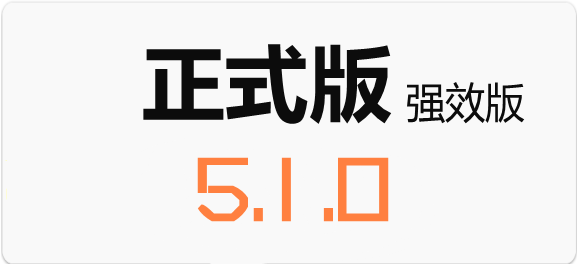
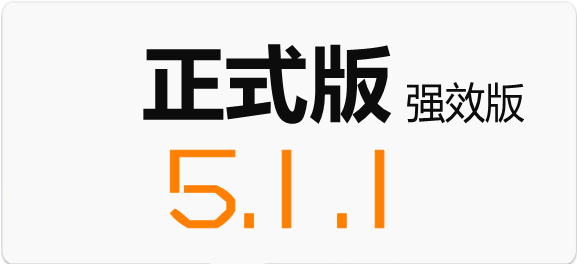
修改校验脚本；版本升级至5.1.1；去除旧的无用图片；新增1个通用规则；修改“搜狗+搜狐”分类为“搜狗&搜狐&搜狐畅游”；新增“搜狐畅游”广告过滤。

Changed region(s): [[0.2808, 0.5455, 0.5303, 0.8788], [0.5615, 0.5455, 0.6863, 0.8788]]

diff --git a/branches/checksum/addChecksum.py b/branches/checksum/addChecksum.py
@@ -1,7 +1,22 @@
 #! /usr/bin/env python
 #coding=utf-8
 #version=1.0
- 
+
+#############################################################################
+# This is a reference script to add checksums to downloadable               #
+# subscriptions. The checksum will be validated by Adblock Plus on download #
+# and checksum mismatches (broken downloads) will be rejected.              #
+#                                                                           #
+# To add a checksum to a subscription file, run the script like this:       #
+#                                                                           #
+#   python addChecksum.py adblock.txt  					                    #
+#                                                                           #
+# Note: your subscription file should be saved in UTF-8 encoding, otherwise #
+# the generated checksum might be incorrect.                                #
+#                                                                           #
+# This script is wrote by Gythialy for ChinaList Project                    #
+#############################################################################
+
 import os
 import codecs
 import hashlib
@@ -9,39 +24,39 @@ import base64
 import re
 import string
 import sys
- 
+
 def read(path):
     f = codecs.open(path, 'rt', encoding='utf-8')
     data = f.read()
     f.close()
     return data
- 
+
 def save(content, path):
     f = codecs.open(path, 'w', encoding='utf-8')
     f.write(content)
     f.close()
- 
+
 def calculatchecksum(content):
     content = re.sub(r"\r\n", "\n", content)
     content = re.sub(r"\n+", "\n", content)
     m = hashlib.md5(content.encode('utf-8'))
     validate = base64.b64encode(m.digest())
- 
+
     return re.sub(r"=+$", "", validate)
- 
+
 def insert(original, new):
     pos = original.index(']') + 2
     return original[:pos] + new + original[pos:]
- 
+
 def removechecksum(content):
     prog = re.compile(r"\s*!\s*checksum[\s\-:]+([\w\+\/=]+).*\n", re.I)
     match = prog.search(content)
     if match:
         temp = match.group().strip()
         content = string.replace(content, temp, "")
- 
+
     return content
- 
+
 if __name__ == '__main__':
     if len(sys.argv) != 2:
         print 'Pls input file name.'
@@ -54,7 +69,7 @@ if __name__ == '__main__':
     print 'Began to insert checksum'
     content = read(filename)
     content = removechecksum(content)
- 
+
     checksum = '!  Checksum: {0}'.format(calculatchecksum(content))
     content = insert(content, checksum)
     save(content, path)

diff --git a/branches/checksum/validateChecksum.py b/branches/checksum/validateChecksum.py
@@ -1,7 +1,22 @@
 #! /usr/bin/env python
 #coding=utf-8
 #version=1.0
- 
+
+#############################################################################
+# This is a reference script to validate the checksum in downloadable       #
+# subscription. This performs the same validation as Adblock Plus when it   #
+# downloads the subscription.                                               #
+#                                                                           #
+# To validate a subscription file, run the script like this:                #
+#                                                                           #
+#   python validateChecksum.py adblock-list.txt                             #
+#                                                                           #
+# Note: your subscription file should be saved in UTF-8 encoding, otherwise #
+# the validation result might be incorrect.                                 #
+#                                                                           #
+# This script is wrote by Gythialy for ChinaList Project                    #
+#############################################################################
+
 import base64
 import codecs
 import hashlib
@@ -9,21 +24,21 @@ import os
 import re
 import sys
 import string
- 
+
 def read(path):
     f = codecs.open(path, 'rt', encoding='utf-8')
     data = f.read()
     f.close()
     return data
- 
+
 def calculatchecksum(content):
     content = re.sub(r"\r\n", "\n", content)
     content = re.sub(r"\n+", "\n", content)
     m = hashlib.md5(content.encode('utf-8'))
     validate = base64.b64encode(m.digest())
- 
+
     return re.sub(r"=+$", "", validate)
- 
+
 def validate(path):
     data = read(path)
     prog = re.compile(r"\s*!\s*checksum[\s\-:]+([\w\+\/=]+).*\n", re.I)
@@ -41,7 +56,7 @@ def validate(path):
         print filename + " 's checksum is valid."
     else:
         print 'Wrong checksum: found {0}, expected {1}'.format(checksum, validate)
- 
+
 if __name__ == '__main__':
     filename = ''
     if len(sys.argv) != 2:
